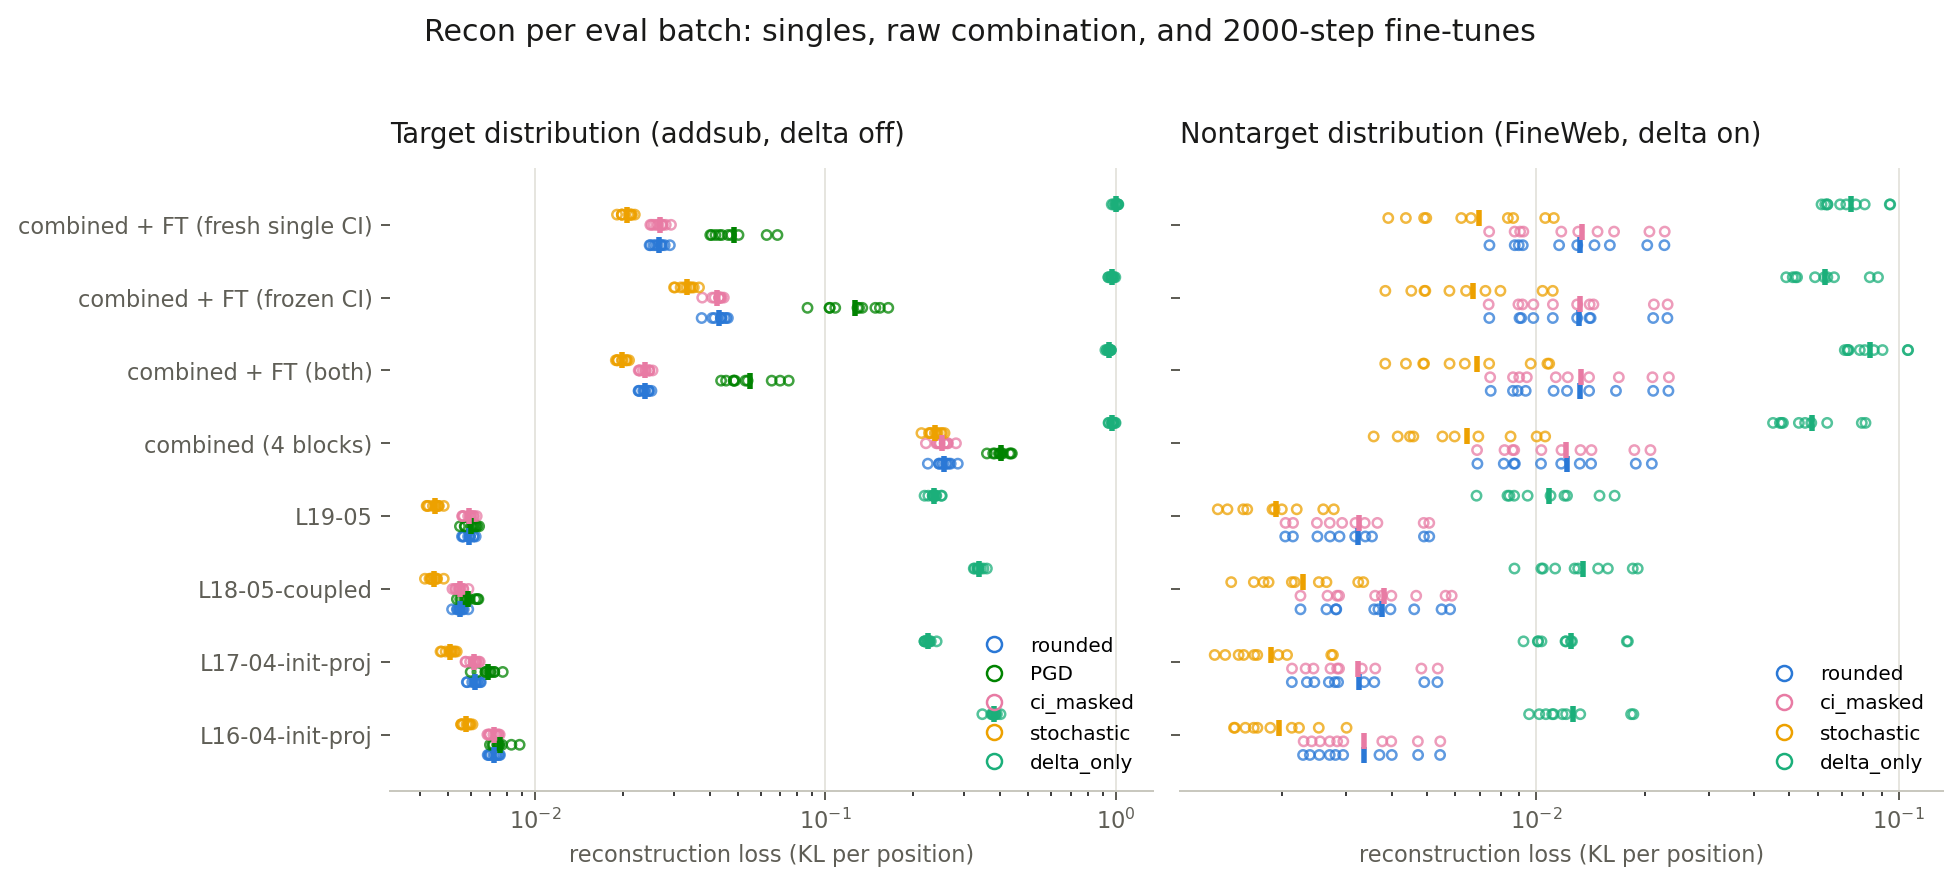
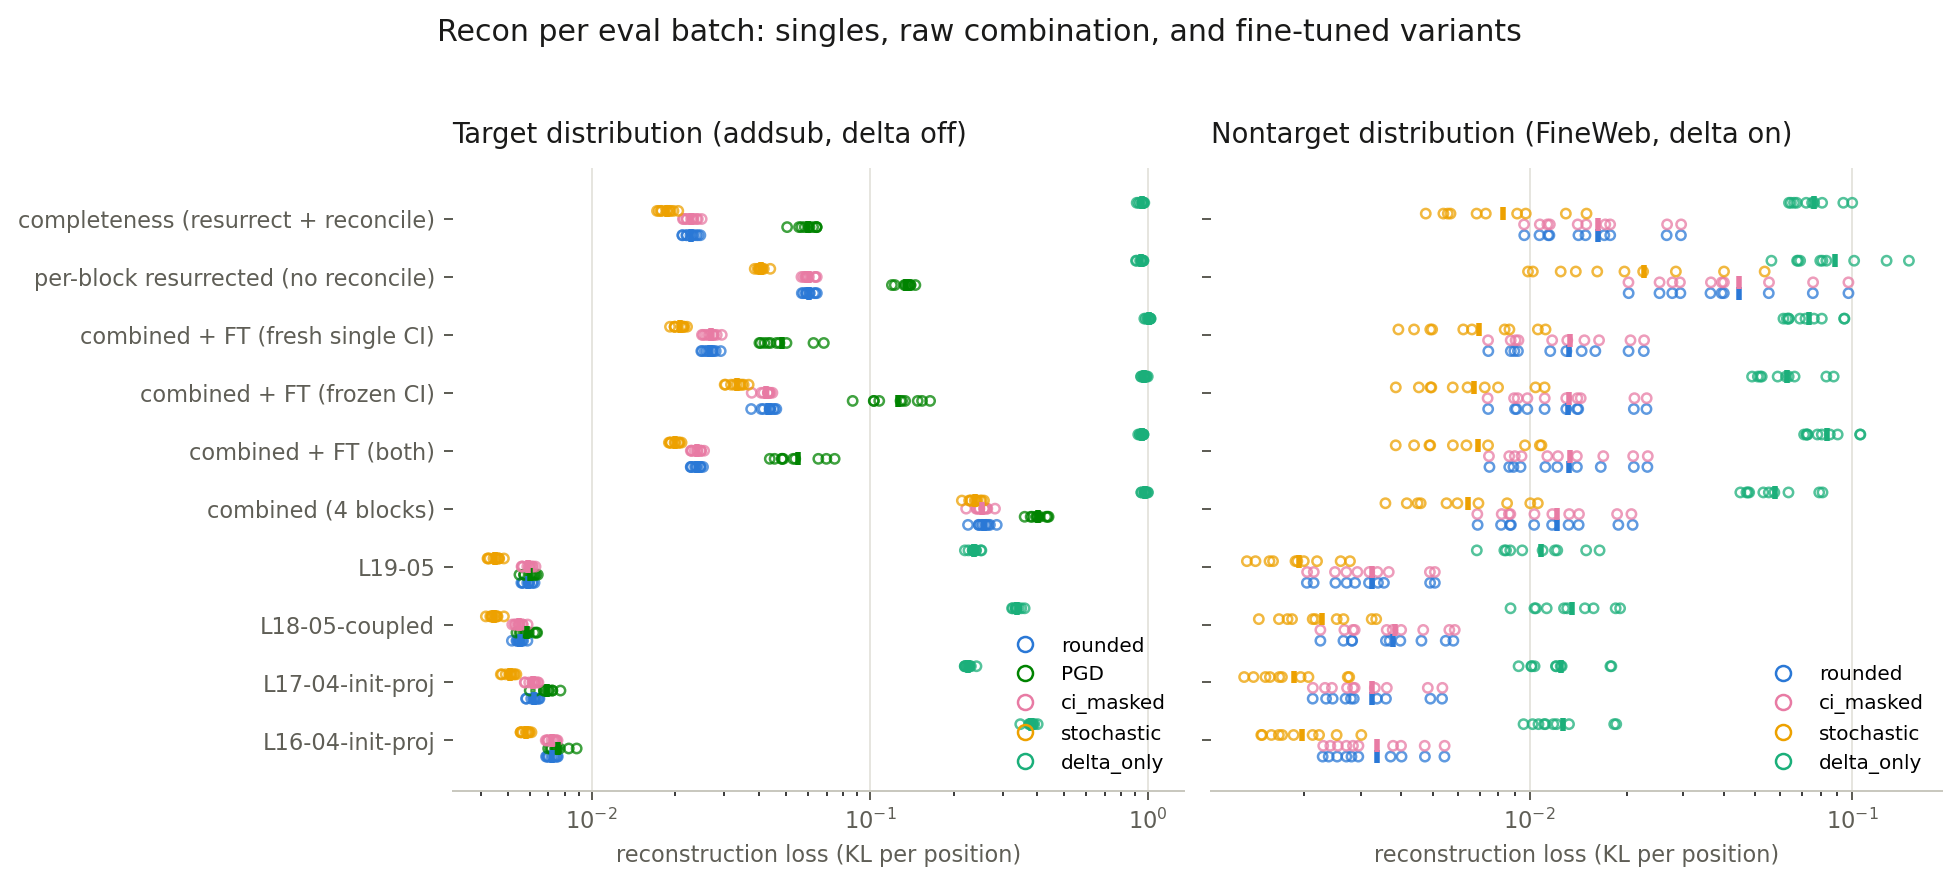
feat(combine): objective-4 reconciliation + final report
finetune.py gains --franken_init (per-group init from donor combined runs)
for the stage-3 reconciliation fine-tune; plots include the obj-4 subjects;
notes carry the completed objective 3/4 results.

Claude-Session: https://claude.ai/code/session_01Y2kb6wSUMCyVM2pe8B5Yc3

diff --git a/param_decomp_lab/combine/plot_obj2.py b/param_decomp_lab/combine/plot_obj2.py
@@ -122,9 +122,15 @@ def _trajectory_figure(
 
 
 def main(
-    obj1_json: str, obj2_json: str, out_dir: str, runs_dir: str, obj3_json: str | None = None
+    obj1_json: str,
+    obj2_json: str,
+    out_dir: str,
+    runs_dir: str,
+    obj3_json: str | None = None,
+    obj4_franken_json: str | None = None,
+    obj4_joint_json: str | None = None,
 ) -> None:
-    """Render obj-2/3 figures: merged subject dot plot + fine-tuning trajectories.
+    """Render obj-2/3/4 figures: merged subject dot plot + fine-tuning trajectories.
 
     Args:
         obj1_json: eval_combined output with singles + raw combined.
@@ -132,6 +138,8 @@ def main(
         out_dir: Directory for the PNGs.
         runs_dir: Runs root (for the fine-tuned runs' metrics.jsonl trajectories).
         obj3_json: eval_combined output with the fresh-single-CI subject (objective 3).
+        obj4_franken_json: eval_combined output with the franken subject (objective 4).
+        obj4_joint_json: eval_combined output with the reconciled subject (objective 4).
     """
     obj1 = json.loads(Path(obj1_json).read_text())
     obj2 = json.loads(Path(obj2_json).read_text())
@@ -140,10 +148,13 @@ def main(
         "combine-L16-19-frozenci-04": "combined + FT (frozen CI)",
         "combine-L16-19-both-02": "combined + FT (both)",
         "combine-L16-19-obj3-freshci-01": "combined + FT (fresh single CI)",
+        "franken": "per-block resurrected (no reconcile)",
+        "complete-joint-01": "completeness (resurrect + reconcile)",
     }
     finetuned_results = dict(obj2["results"])
-    if obj3_json is not None:
-        finetuned_results.update(json.loads(Path(obj3_json).read_text())["results"])
+    for extra in (obj3_json, obj4_franken_json, obj4_joint_json):
+        if extra is not None:
+            finetuned_results.update(json.loads(Path(extra).read_text())["results"])
     for name, r in finetuned_results.items():
         results[rename.get(name, name)] = r
     singles = [s for s in obj1["results"] if s != "combined"]
@@ -164,7 +175,7 @@ def main(
     for ax in axes:
         ax.set_xlabel("reconstruction loss (KL per position)", color=TEXT_SECONDARY, fontsize=9)
     fig.suptitle(
-        "Recon per eval batch: singles, raw combination, and 2000-step fine-tunes",
+        "Recon per eval batch: singles, raw combination, and fine-tuned variants",
         y=1.02,
         color=TEXT_PRIMARY,
         fontsize=12,
@@ -176,7 +187,14 @@ def main(
     print(f"wrote {out_path}")
 
     singles_rounded = [obj1["results"][s]["mean"]["target_recon/rounded"] for s in singles]
-    trajectory_runs = {name: Path(runs_dir) / name for name in rename if name in finetuned_results}
+    trajectory_names = (
+        "combine-L16-19-both-02",
+        "combine-L16-19-frozenci-04",
+        "combine-L16-19-obj3-freshci-01",
+    )
+    trajectory_runs = {
+        name: Path(runs_dir) / name for name in trajectory_names if name in finetuned_results
+    }
     _trajectory_figure(
         trajectory_runs,
         (min(singles_rounded), max(singles_rounded)),

diff --git a/param_decomp_lab/combine/finetune.py b/param_decomp_lab/combine/finetune.py
@@ -29,6 +29,7 @@ from param_decomp_lab.combine.assembly import (
     combined_ci_config,
     load_combined_state,
     load_finetuned_state,
+    load_franken_state,
     load_source_runs,
 )
 from param_decomp_lab.distributed import get_device, init_distributed, with_distributed_cleanup
@@ -191,6 +192,7 @@ def main(
     freeze_components: bool = False,
     train_only_group: str | None = None,
     init_from: str | None = None,
+    franken_init: str | None = None,
     impmin_coeff: float | None = None,
     ci_fn_mode: CiFnMode = "grouped",
     ci_d_model: int | None = None,
@@ -220,6 +222,9 @@ def main(
         init_from: Run id/path of a fine-tuned combined checkpoint (grouped CI) to
             initialise from, e.g. the over-sparse decomposition. Loaded on top of the
             sources' assembled state.
+        franken_init: 'group:run,...' — per-group init from each group's donor
+            combined run, applied after `init_from` (objective 4 stage 3
+            reconciliation).
         impmin_coeff: Importance-minimality coeff; defaults to min over sources of
             their base (end-of-anneal) coeff.
         ci_fn_mode: 'grouped' loads each source's CI fn as a per-block group;
@@ -326,6 +331,11 @@ def main(
         if init_from is not None:
             assert ci_fn_mode == "grouped", "init_from requires ci_fn_mode='grouped'"
             load_finetuned_state(trainer.component_model, init_from)
+        if franken_init is not None:
+            assert ci_fn_mode == "grouped", "franken_init requires ci_fn_mode='grouped'"
+            donors = dict(pair.split(":", 1) for pair in franken_init.split(",") if pair.strip())
+            assert donors, "empty franken_init spec"
+            load_franken_state(trainer.component_model, donors)
         if train_only_group is not None:
             _freeze_all_but_group(trainer.component_model, train_only_group)
         trainer.run(train_loader, sink, cfg.cadence, eval_loop, nontarget=nontarget)

diff --git a/notes/combine_layers/report.md b/notes/combine_layers/report.md
@@ -106,8 +106,78 @@ Key conclusions:
    smaller batch, the truncated LR schedule, and the still-decreasing trajectory,
    longer/bigger fine-tuning plausibly closes most of it.
 
-## Objective 3: re-train a single CI fn
+## Objective 3: a single lighter CI fn works — no distillation needed
 
-(running — `combine-L16-19-obj3-freshci-01`: source-architecture global CI fn
-(d512 × 4 blocks, ~90M params vs 124M for the four per-block CI fns) trained from
-scratch over all 28 matrices, components initialised from the sources.)
+Setup: same fine-tune as objective 2's "both" variant, but ONE
+`global_shared_transformer` CI fn over all 28 matrices (source architecture,
+d512 × 4 blocks: ~90M params vs ~124M for the four per-block CI fns), randomly
+initialised; CI-fn LR 1.6e-4 (the sources' from-scratch value); components
+initialised from the sources.
+
+| subject | rounded | PGD | target L0 | ntgt rounded | ntgt L0 | CI-fn params |
+|---|---|---|---|---|---|---|
+| FT both (4 per-block CI fns) | **0.0239** | 0.0551 | **67.6** | 0.0133 | **0.59** | ~124M |
+| FT fresh single CI fn | 0.0266 | **0.0484** | 97.9 | 0.0132 | 2.73 | ~90M |
+
+(Dot-plot and trajectory figures above include this variant.)
+
+Key conclusions:
+
+1. **Feasible.** From a random initialisation (step 0: rounded 0.73, everything
+   half-on at L0 3434) the single CI fn organises within ~500 steps and reaches
+   recon comparable to the per-block bundle by 2000 — slightly worse rounded,
+   and the best adversarial (PGD) recon of any variant.
+2. The costs at this budget are **sparsity** (L0 98 vs 68, but still falling
+   steeply: 187 → 128 → 111 → 97 over the second half) and **targeting**
+   (nontarget L0 2.7 vs 0.6). Both trajectories suggest longer training closes
+   the gap; the CI fn simply hasn't finished tightening.
+3. The fallback (distilling the four CI fns into one) is unnecessary.
+
+## Objective 4: completeness training works — and beats plain joint fine-tuning
+
+Protocol (all stages at global batch 32, frozen-CI stages train only components):
+
+1. **Over-sparse decomposition** = the objective-2 frozen-CI run: components adapt
+   under pinned masks; plateaus at rounded 0.0431 (pinned masks cannot resurrect
+   dropped mechanisms).
+2. **Per-block resurrection** (1000 steps each, other blocks hard-frozen at the
+   over-sparse state, init from its checkpoint): each block trains its components
+   *and its CI fn* against the over-sparse rest, so it must supply whatever
+   redundant mechanism the ensemble lost.
+
+   | block | rounded 0→1000 | PGD 0→1000 | L0 gained |
+   |---|---|---|---|
+   | L16 | 0.0426 → 0.0362 | 0.150 → 0.114 | +12.6 |
+   | L17 | 0.0426 → 0.0451 | 0.150 → 0.126 | +4.0 |
+   | L18 | 0.0426 → 0.0351 | 0.150 → 0.108 | +14.8 |
+   | L19 | 0.0426 → 0.0487 | 0.150 → 0.136 | +4.6 |
+
+   Redundancy is heterogeneous: **L16/L18 are the resurrectors** (large L0 gains and
+   real recon improvements); L17/L19 wake little.
+3. **Frankenstein assembly** (each block from its own run): rounded **0.0605** —
+   *worse* than the over-sparse baseline. The per-block gains do not compose (each
+   block was tuned against the over-sparse others; all four changed at once — the
+   objective-1 superadditivity in miniature; naive additive expectation was 0.037).
+4. **Reconciliation** (1000-step joint fine-tune from the franken state, CI fns
+   frozen): rounded 0.0605 → **0.0229** within 1000 steps.
+
+| variant (standalone eval, same script/seed) | rounded | PGD | L0 | ntgt rounded | ntgt L0 |
+|---|---|---|---|---|---|
+| over-sparse (frozen-CI FT of raw assembly) | 0.0431 | 0.126 | 38.1 | 0.0132 | 0.35 |
+| franken (resurrected, no reconcile) | 0.0605 | 0.135 | 72.8 | 0.0447 | 0.45 |
+| **completeness (resurrect + reconcile)** | **0.0228** | 0.0598 | 72.8 | 0.0163 | **0.45** |
+| joint FT "both" (reference) | 0.0239 | 0.0551 | 67.6 | 0.0133 | 0.59 |
+
+Key conclusions:
+
+1. **The resurrection hypothesis is confirmed.** Frozen-mask training saturates at
+   0.043 (stage 1 proved this); after per-block resurrection the *same* frozen-mask
+   training reaches 0.0228. The difference is entirely the ~35 L0 of components the
+   per-block phase woke up — mechanisms the single-block decompositions had dropped.
+2. **The completeness protocol matches full joint fine-tuning on target recon**
+   (0.0228 vs 0.0239) at similar L0, with somewhat better off-distribution sparsity
+   (ntgt L0 0.45 vs 0.59) — while all mask changes happened in isolated,
+   attributable per-block phases rather than one entangled joint optimisation.
+3. **Reconciliation is mandatory** — assembling the resurrected blocks without it is
+   worse than not resurrecting at all (0.0605 vs 0.0431 rounded, and 3.4× worse
+   nontarget recon, which the reconciliation also heals: 0.052 → 0.015).

diff --git a/notes/combine_layers/lab_notebook.md b/notes/combine_layers/lab_notebook.md
@@ -230,6 +230,64 @@ Design decisions for stage 2 (per-block fine-tune):
   components + CI fn taken from its own per-block run) and evaluate; joint
   short fine-tune only if the franken assembly degrades.
 
+### Obj 3 finals (standalone eval, `obj3_eval.json`)
+
+| model | rounded | PGD | L0 | ntgt rounded | ntgt L0 | CI-fn params |
+|---|---|---|---|---|---|---|
+| both-02 (4 per-block CI fns) | 0.0239 | 0.0551 | 67.6 | 0.0133 | 0.59 | ~124M |
+| obj3 fresh single CI fn | 0.0266 | **0.0484** | 97.9 | 0.0132 | 2.73 | ~90M |
+
+A single from-scratch CI fn over all 28 matrices reaches comparable recon (slightly
+worse rounded, best PGD of all variants) with a lighter CI stack, but is less sparse
+(L0 98 vs 68, still falling at 2000 steps: 187→128→111→97) and notably less targeted
+(ntgt L0 2.7 vs 0.6). Verdict: viable; needs longer training to catch up on
+sparsity/targeting. Distillation not needed.
+
+### Obj 4 stage 2 — all four blocks (steps 0 → 1000, others frozen at over-sparse)
+
+| block | rounded | PGD | total L0 |
+|---|---|---|---|
+| L16 | 0.0426 → 0.0362 | 0.150 → 0.114 | 38.1 → 50.7 (+12.6) |
+| L17 | 0.0426 → 0.0451 | 0.150 → 0.126 | 38.1 → 42.1 (+4.0) |
+| L18 | 0.0426 → 0.0351 | 0.150 → 0.108 | 38.1 → 52.9 (+14.8) |
+| L19 | 0.0426 → 0.0487 | 0.150 → 0.136 | 38.1 → 42.7 (+4.6) |
+
+Every step-0 eval reproduced frozenci-04's final (0.0426/0.150/38.1) — init/freeze
+machinery validated four times. Clear per-block heterogeneity: **L16 and L18 are the
+resurrectors** (+13–15 L0 and real recon gains); L17/L19 wake little and their
+rounded recon even drifts slightly up (they mostly re-tune PGD robustness). Also
+faster than joint runs (~1.5 s/it vs 2.7: frozen blocks skip gradient work).
+
+### Obj 4 stage 3 — franken assembly does NOT compose (obj4_franken_eval.json)
+
+franken (each block from its own per-block run): rounded **0.0605**, PGD 0.135,
+L0 72.8, ntgt rounded **0.0447** (vs over-sparse 0.0431 / 0.126 / 38.1 / 0.0132).
+Worse than the over-sparse baseline it grew from, and 3.4× worse nontarget recon.
+Naive additive expectation from the per-block gains was ≈0.037; interaction penalty
+≈ +0.023 — the obj-1 superadditivity in miniature: each block was tuned against the
+over-sparse *others*, and all four changed at once.
+
+→ Reconciliation pass launched (`complete-joint-01`, job 4747): joint fine-tune
+from the franken state with frozen CI fns (masks keep the resurrected components
+alive; components re-align), 1000 steps. Success criterion: beat over-sparse
+(0.0431) substantially at its ~73 L0, ideally approaching both-02 (0.0239 @ 68) —
+which would show the completeness protocol buys recon that frozen-mask training
+alone could not.
+
+### Obj 4 stage 3 — reconciliation succeeds (2026-07-16, complete-joint-01)
+
+Trajectory: rounded 0.0598 → 0.0235 (step 500) → 0.0229 (step 1000); PGD 0.163 →
+0.070; L0 flat at ~72–74 (CI fns frozen ⇒ masks pinned); nontarget rounded healed
+0.052 → 0.0148. Standalone eval (`obj4_joint_eval.json`): rounded **0.0228**, PGD
+0.0598, L0 72.8, ntgt rounded 0.0163, ntgt L0 0.454.
+
+**Success criterion met and exceeded**: frozen-mask training that plateaued at
+0.0431 from the raw assembly reaches 0.0228 from the resurrected assembly — the
+difference is attributable to the ~35 L0 of per-block-resurrected components. The
+protocol matches joint "both" fine-tuning on recon (0.0228 vs 0.0239) at similar
+L0 with better nontarget sparsity (0.45 vs 0.59), and every mask change happened in
+an isolated, per-block phase. Figures regenerated with both obj-4 subjects.
+
 ### Obj 3 launched
 
 - `combine-L16-19-obj3-freshci-01` (job 4732): components from the sources, ONE

diff --git a/notes/combine_layers/spec.md b/notes/combine_layers/spec.md
@@ -84,8 +84,24 @@ DDP: `torchrun --standalone --nproc_per_node=N -m param_decomp_lab.combine.finet
 single-GPU at global batch 32).
 
 `eval_combined` also accepts `--finetuned=<ids>`: fine-tuned combined runs
-(grouped_global CI) evaluated as additional subjects from their own checkpoints,
-through the identical metric loop.
+(grouped_global or global CI) evaluated as additional subjects from their own
+checkpoints, through the identical metric loop; and `--franken=group:run,...`
+(+ optional `--franken_base=<run>`): a subject assembled per-group from donor
+combined runs (objective 4 stage 3).
+
+## Objective 4 machinery (completeness training)
+
+- `finetune.py --init_from=<run>`: initialise from a fine-tuned combined checkpoint
+  (e.g. the over-sparse decomposition) instead of just the sources.
+- `finetune.py --train_only_group=layers<N>`: hard-freeze (requires_grad) every
+  other group's components + CI fns. Single-process only (DDP's reducer would hang).
+  Core change: `_apply_ci_scaled_weight_decay` skips frozen components — the decay
+  is applied outside the optimizer at the scheduled LR and would otherwise shrink
+  "frozen" blocks' dormant subcomponents.
+- `finetune.py --franken_init=group:run,...`: per-group init from donor combined
+  runs (applied after `--init_from`), for the stage-3 reconciliation fine-tune.
+- `assembly.py`: `load_finetuned_state`, `load_franken_state`,
+  `group_patterns_by_layer`.
 
 ## Plotting
 

diff --git a/notes/combine_layers/commands.md b/notes/combine_layers/commands.md
@@ -98,6 +98,34 @@ sbatch -J obj3-freshci ~/pd_scratch/combine_layers/obj2_finetune.sbatch \
 (`--ci_d_model` / `--ci_n_blocks` override the CI-fn size; default = source arch,
 d512 × 4 blocks, which is already lighter than four per-block CI fns.)
 
+## Objective 4 — completeness training
+
+Stage 1 (over-sparse) = the obj-2 frozen-CI run (`combine-L16-19-frozenci-04`).
+
+Stage 2 — per-block resurrection (one job per block, ~25 min each on 1 GPU):
+
+```bash
+for L in 16 17 18 19; do
+  sbatch -J complete-L$L ~/pd_scratch/combine_layers/obj2_finetune.sbatch complete-L$L-01 \
+    --init_from=combine-L16-19-frozenci-04 --train_only_group=layers$L \
+    --steps=1000 --save_every=1000 --nontarget_batch_size=16 --group=combine-obj4
+done
+```
+
+Each run's step-0 eval must reproduce frozenci-04's final (≈0.043 rounded) — built-in
+validation of the init/freeze machinery.
+
+Stage 3 — frankenstein assembly eval (each block from its own per-block run):
+
+```bash
+python -m param_decomp_lab.combine.eval_combined \
+  --runs=addsub-L16-04-init-proj,addsub-L17-04-init-proj,addsub-L18-05-coupled,addsub-L19-05 \
+  --include_singles=False --include_combined=False \
+  --franken=layers16:complete-L16-01,layers17:complete-L17-01,layers18:complete-L18-01,layers19:complete-L19-01 \
+  --franken_base=combine-L16-19-frozenci-04 \
+  --out=$HOME/out/combine/obj4_franken_eval.json
+```
+
 ## Tests
 
 ```bash
